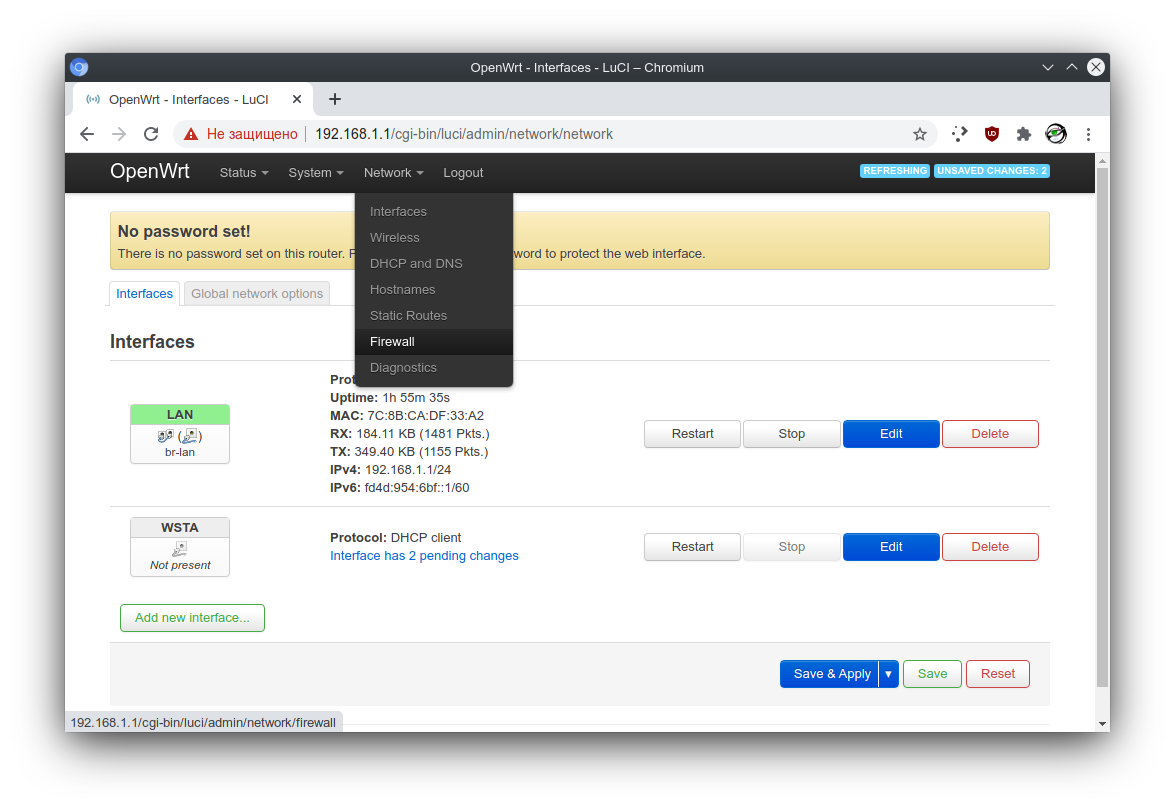
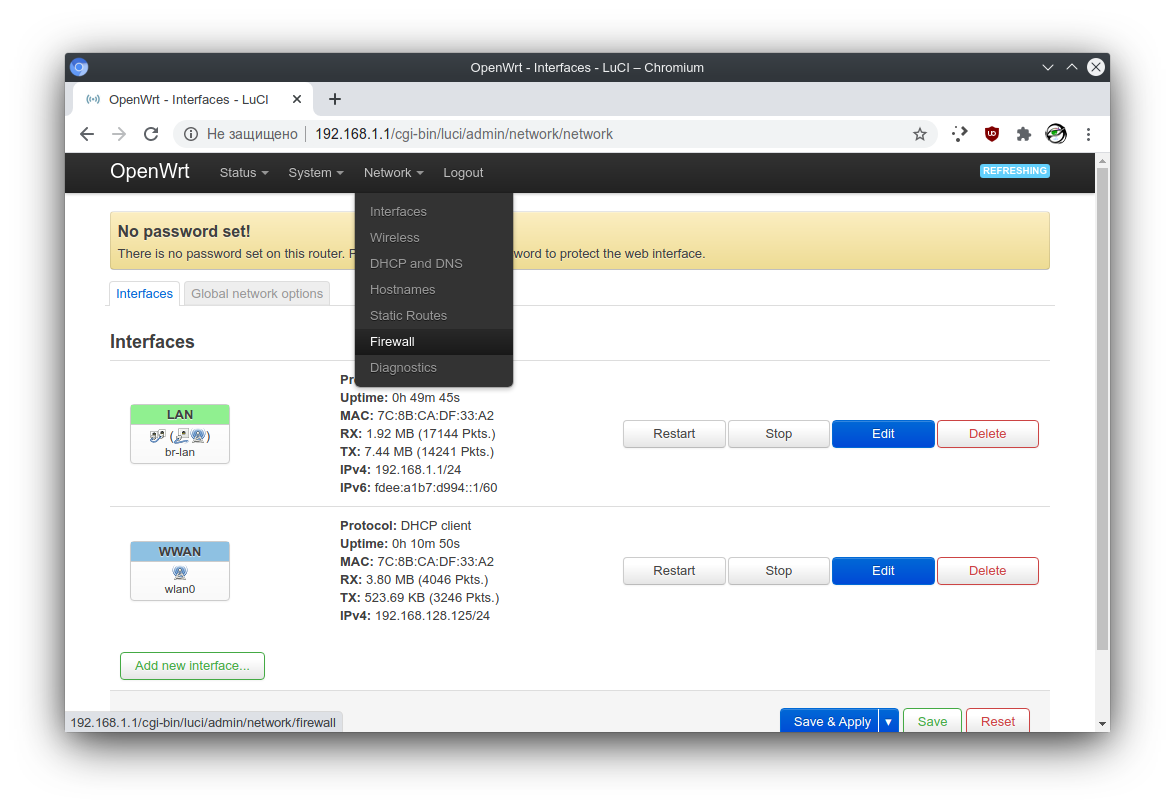
LuCi. Update Readme with proper steps.

diff --git a/Documentation/README.wifi-sta-dualsetup-luci.md b/Documentation/README.wifi-sta-dualsetup-luci.md
@@ -37,11 +37,15 @@ Username is `root` password by default is blank, so leave it empty.
 3. Push `Add new interface...` button.
 ![Add new interface](images/wifi-sta-dualsetup/03-interfaces-page.png)
 
-**4.** Here we add our outgoing network interface with name `wsta` and DHCP-client.
+**4.1** Here we add our outgoing network interface with name `wwan` and DHCP-client.
 After finished just push `Create interface` button.
+
 **WARNING!** Don't enable bridge on this interface as station *vif* cannot be 
 added to bridge.
-![New interface tab](images/wifi-sta-dualsetup/04-interfaces-addif.png)
+![New interface tab](images/wifi-sta-dualsetup/04-1-interfaces-addif.png)
+
+**4.2** On next screen just Press `Save`
+![New interface tab](images/wifi-sta-dualsetup/04-2-interfaces-addif-save.png)
 
 **5.** Navigate to firewall configuration with menu on top of page.
 ![Network Interfaces menu](images/wifi-sta-dualsetup/05-firewall-menu.png)
@@ -49,49 +53,47 @@ added to bridge.
 **6.** Push `Add` button to add new firewall zone.
 ![Network Interfaces menu](images/wifi-sta-dualsetup/06-firewall-page.png)
 
-**7.** On this page we creating new firewall zone for our station named `wsta`. 
+**7.** On this page we creating new firewall zone for our station named `wwan`. 
 Be sure, that `Input` set to `accept` and `Masquerading` is enabled for outgoing 
 traffic. We doing `accept` on `Input` to make configuration available (LuCi/telnet)
 from our uplink network.
 ![Network Interfaces menu](images/wifi-sta-dualsetup/07-firewall-addzone1.png)
-Here we set `Covered networks` to our previously created interface `wsta`
+Here we set `Covered networks` to our previously created interface `wwan`
 and enable forwarding with `lan` zone to enable access to uplink for our 
 own stations connected to our AP *vif*.
 ![Network Interfaces menu](images/wifi-sta-dualsetup/07-firewall-addzone2.png)
 After finished push `Save` button.
 
-**8.** Navigate to Wireless configuration with menu on top of page.
-![Network Interfaces menu](images/wifi-sta-dualsetup/08-wireless-menu.png)
+**8.** Here push `Save & Apply` button to save network and firewall configuration
+at once.
+![Save and Apply](images/wifi-sta-dualsetup/08-firewall-n-net-save-n-apply.png)
 
-**9.** In order to add new *vif* push `Add` button on first row last cell
+**9.** Navigate to Wireless configuration with menu on top of page.
+![Wireless menu](images/wifi-sta-dualsetup/09-wireless-menu.png)
+
+**10.** In order to add new station *vif* push `Scan` button on first row middle cell
 describing *phy/radio* interface.
-![Network Interfaces menu](images/wifi-sta-dualsetup/09-wireless-page.png)
+![Scan Button](images/wifi-sta-dualsetup/10-wireless-scan-button.png)
 
-**10.** This window is separated with `Device Configuration` which describes 
-*phy/radio* and `Interface Configuration` which describes *vif*. 
-We don't need to change anything on `Device Configuration` section.
-Scroll down to Last one
-![Network Interfaces menu](images/wifi-sta-dualsetup/10-wireless-addif1.png)
-Here we set `mode` to `Client`, setup `ESSID` with your wireless network name to 
-connect to. Don't forget to set `Network` to our newly created `wsta` interface.
-![Network Interfaces menu](images/wifi-sta-dualsetup/10-wireless-addif2.png)
+**11.** In openned window you will see scan results. Here you have to remember
+`channel` of your uplink network (in this case it is 3) 
+and can select it by pressing `Join Network` button.
+![WiFi Scan Results](images/wifi-sta-dualsetup/11-wireless-scan-results.png)
 
-**11.** Switch to `Wireless Security` tab and setup parameters of uplink network.
-Usually `Encryption` set to `WPA-PSK/WPA2-PSK Mixed Mode` is universal. 
-Set `Encryption` and `Key` according to your uplink network.
-![Network Interfaces menu](images/wifi-sta-dualsetup/11-wireless-addif-enc.png)
-After done, just push `Save` button.
+**12.** In this window you need to setup WPA/WPA2 encryption key of your uplink netowrk
+and Assign previously created `wwan` firewall zone. Name of the network should be
+`wwan`. At the end push `Submit` button.
+![WiFi Station Setup](images/wifi-sta-dualsetup/12-wireless-sta-setup.png)
 
-**12.** Recheck downstream AP *vif* parameters by pressing `Edit` button on
-corresponding row.
-![Network Interfaces menu](images/wifi-sta-dualsetup/12-wireless-checkap-edit.png)
+**13.** In this window you only need to setup proper channel number from step **11**.
+In this example we set channel `3`.
+![WiFi Channel Setup](images/wifi-sta-dualsetup/13-wireless-dev-channel-setup.png)
 
-**13.** Be sure that our AP interface `Network` is set to `lan`.
-![Network Interfaces menu](images/wifi-sta-dualsetup/13-wireless-checkap-netif.png)
-After finished push `Save` button.
+**14.** Scroll down and press `Save` button.
+![WiFi Station save](images/wifi-sta-dualsetup/14-wireless-sta-save.png)
 
-**14.** At the end press `Save & Apply` button at the bottom of page.
-![Network Interfaces menu](images/wifi-sta-dualsetup/14-wireless-save-n-apply.png)
+**15.** At the end just push `Save & Apply` button athe bottom of main page.
+![WiFi Save & Apply](images/wifi-sta-dualsetup/15-wireless-save-n-apply.png)
 
 After parameters is applied everything should work fine. 
 AP interface will go up after station interface successfully connects to uplink.
